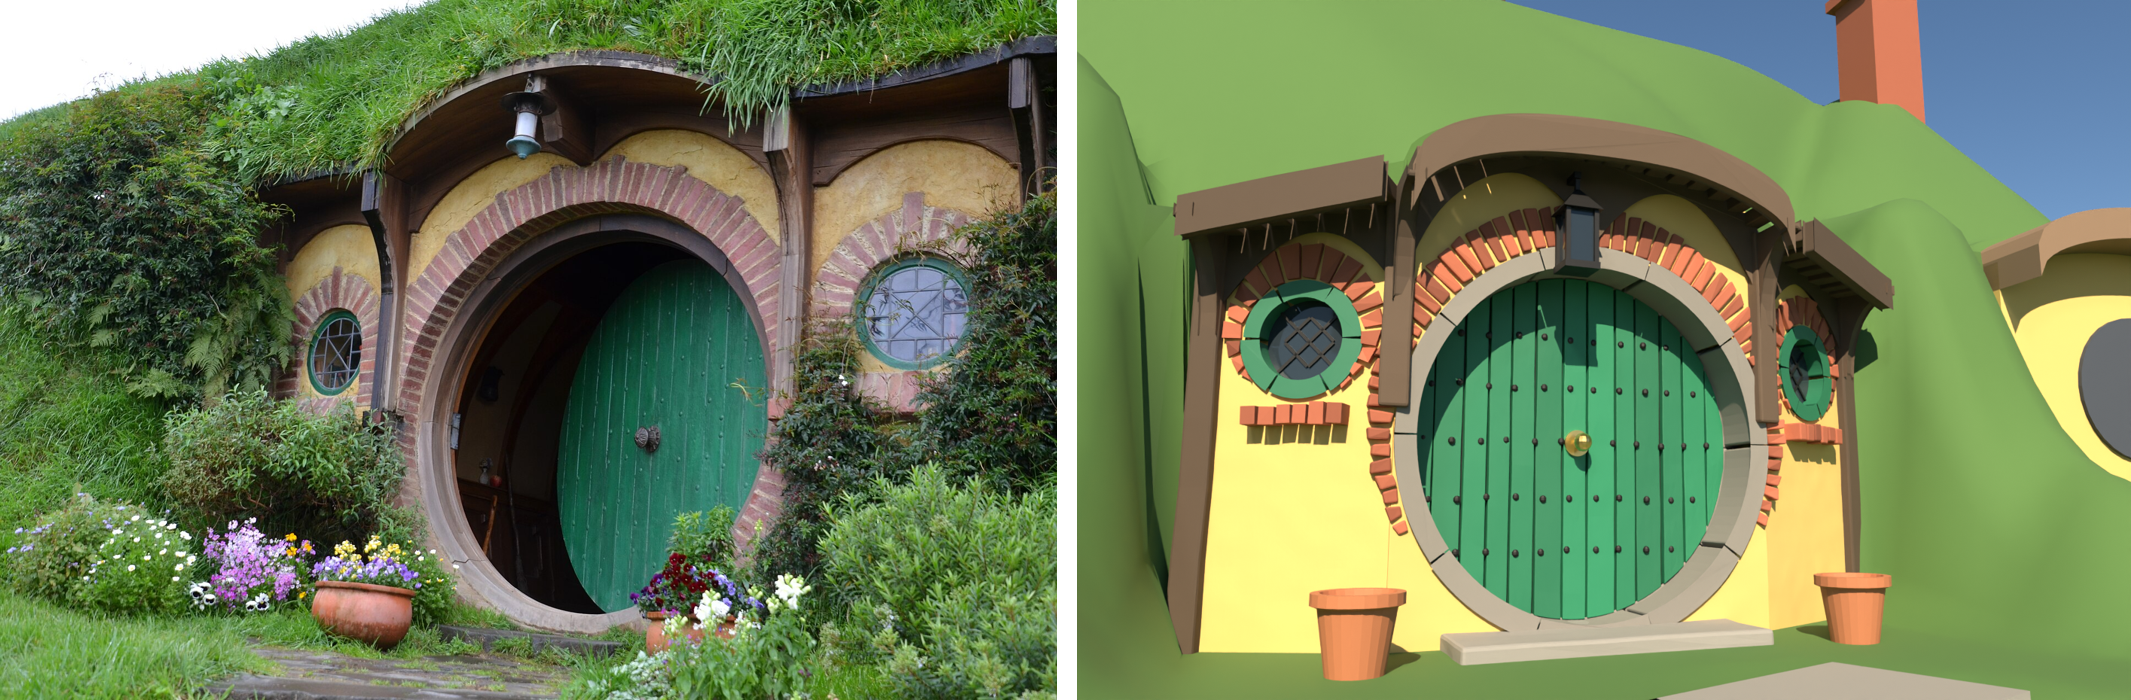
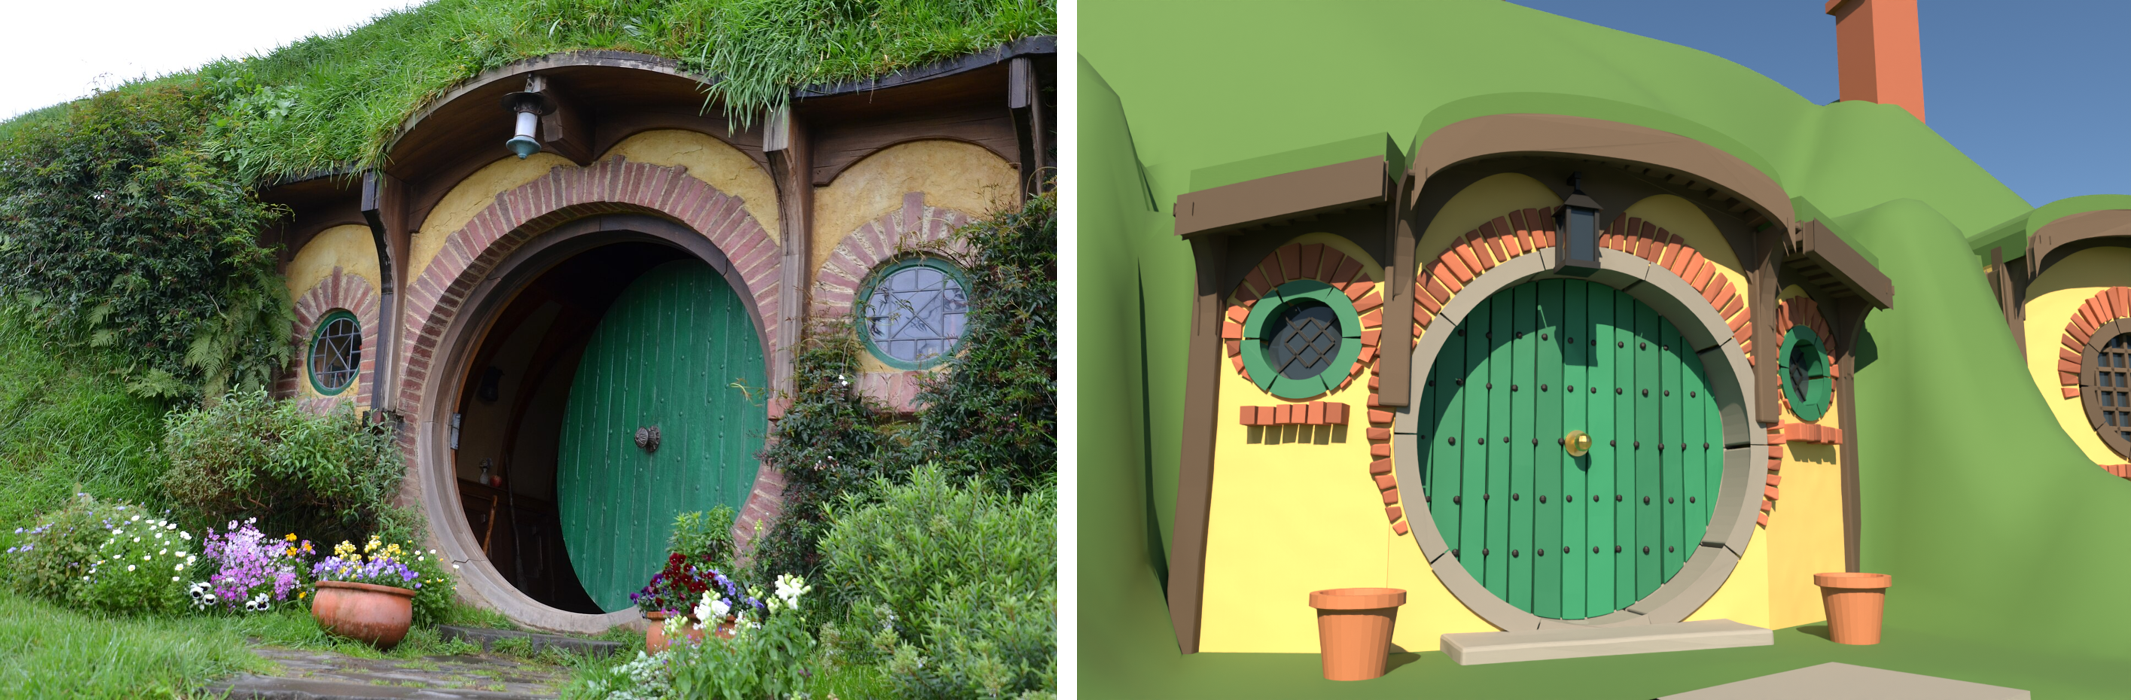
feat(bag_end): build every front in detail; cameras for refs 05 and 08
build.py builds the door front and fronts.build(); the block-outs are retired with their tests,
so opening data lives only in fronts.py. render.py drops the block-out colours and adds ref05
and ref08; build_bag_end.sh makes their comparison sheets. Comparison sheets regenerated.

diff --git a/lotr/shire/bag_end/blender/bagend/render.py b/lotr/shire/bag_end/blender/bagend/render.py
@@ -10,9 +10,6 @@ from . import parts, scene
 # Object name prefix -> base colour (linear RGB). First match wins.
 COLOURS = (
     ("hill", parts.TURF),
-    ("front_", parts.PLASTER),
-    ("eave_", (0.20, 0.13, 0.08)),
-    ("window_", (0.04, 0.05, 0.07)),
     ("step_", parts.STONE),
     ("wall_", parts.STONE),
     ("chimney", parts.BRICK),
@@ -22,8 +19,8 @@ COLOURS = (
 TIMBER = (0.33, 0.23, 0.14)
 
 # Cameras matched to the reference photos by eye: (location, look-at, focal length in mm).
-# ref01, ref02 and ref03 look at the door front, which is true size, so they line up with their
-# photos. The hill around the fronts is compressed (layout.py), so ref09 and ref10 only frame
+# ref01, ref02, ref03, ref05 and ref08 look at fronts, which are true size, so they line up with
+# their photos. The hill around the fronts is compressed (layout.py), so ref09 and ref10 only frame
 # the same view of it.
 CAMERAS = {
     "ref09": ((12.0, -52.0, 3.0), (-5.0, 0.0, 2.6), 90),
@@ -31,6 +28,8 @@ CAMERAS = {
     "ref03": ((2.45, -7.3, 0.1), (0.1, 1.7, 3.8), 24),
     "ref01": ((0.15, -6.0, 1.35), (0.15, 0.0, 1.25), 38),
     "ref02": ((-1.4, -3.6, 0.55), (0.05, 0.0, 1.25), 30),
+    "ref05": ((2.9, -5.4, 0.7), (1.0, 0.0, 1.1), 24),
+    "ref08": ((-10.2, -4.2, 0.35), (-7.4, 0.0, 2.1), 24),
     "overview": ((-24.0, -30.0, 18.0), (-7.0, 1.0, 0.5), 40),
 }
 

diff --git a/lotr/shire/bag_end/blender/tests/test_build.py b/lotr/shire/bag_end/blender/tests/test_build.py
@@ -23,7 +23,8 @@ def test_build_twice_gives_one_of_each():
     build.build_scene()
     names = [o.name for o in bpy.data.objects]
     assert "hill" in names and "doorfront_door_boards" in names and "oak_crown" in names
-    assert "front_door" not in names
+    assert "ornate_bargeboard" in names and "lattice_window_window_bars" in names
+    assert not [n for n in names if n.startswith(("front_", "eave_", "window_"))]       # no block-outs left
     dupes = [n for n in names if re.search(r"\.\d{3}$", n)]
     assert not dupes, dupes
     assert not [m.name for m in bpy.data.meshes if m.name.startswith("cutter")]

diff --git a/lotr/shire/bag_end/blender/tests/test_render.py b/lotr/shire/bag_end/blender/tests/test_render.py
@@ -10,7 +10,7 @@ CUBE = ([(0, 0, 0), (1, 0, 0), (1, 1, 0), (0, 1, 0), (0, 0, 1), (1, 0, 1), (1, 1
 def test_every_reference_camera_is_created_with_its_lens():
     scene.reset_scene()
     render.setup()
-    assert {"ref01", "ref02", "ref03", "ref09", "ref10"} <= set(render.CAMERAS)
+    assert {"ref01", "ref02", "ref03", "ref05", "ref08", "ref09", "ref10"} <= set(render.CAMERAS)
     for name, (_, _, lens) in render.CAMERAS.items():
         cam = bpy.data.objects[name]
         assert cam.type == "CAMERA" and cam.data.lens == lens

diff --git a/lotr/shire/bag_end/blender/build.py b/lotr/shire/bag_end/blender/build.py
@@ -7,7 +7,7 @@ from pathlib import Path
 
 import bpy
 
-from bagend import blockout, doorfront, garden, hill, render, scene
+from bagend import doorfront, fronts, garden, hill, render, scene
 
 OUT = Path(__file__).resolve().parents[1]
 
@@ -15,8 +15,8 @@ OUT = Path(__file__).resolve().parents[1]
 def build_scene():
     scene.reset_scene()
     hill.build()
-    blockout.build(exclude=("door",))
     doorfront.build()
+    fronts.build()
     garden.build()
     render.setup()
 
